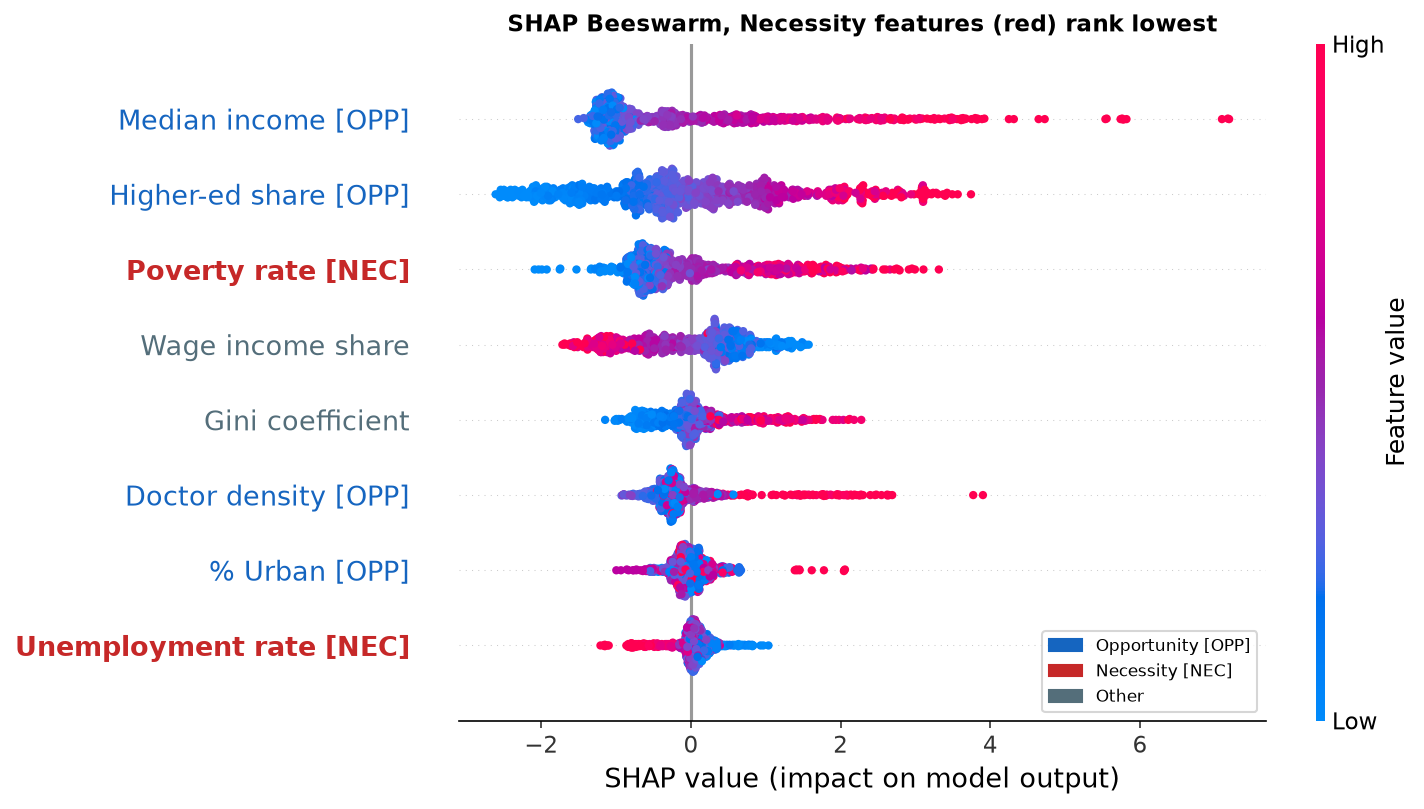
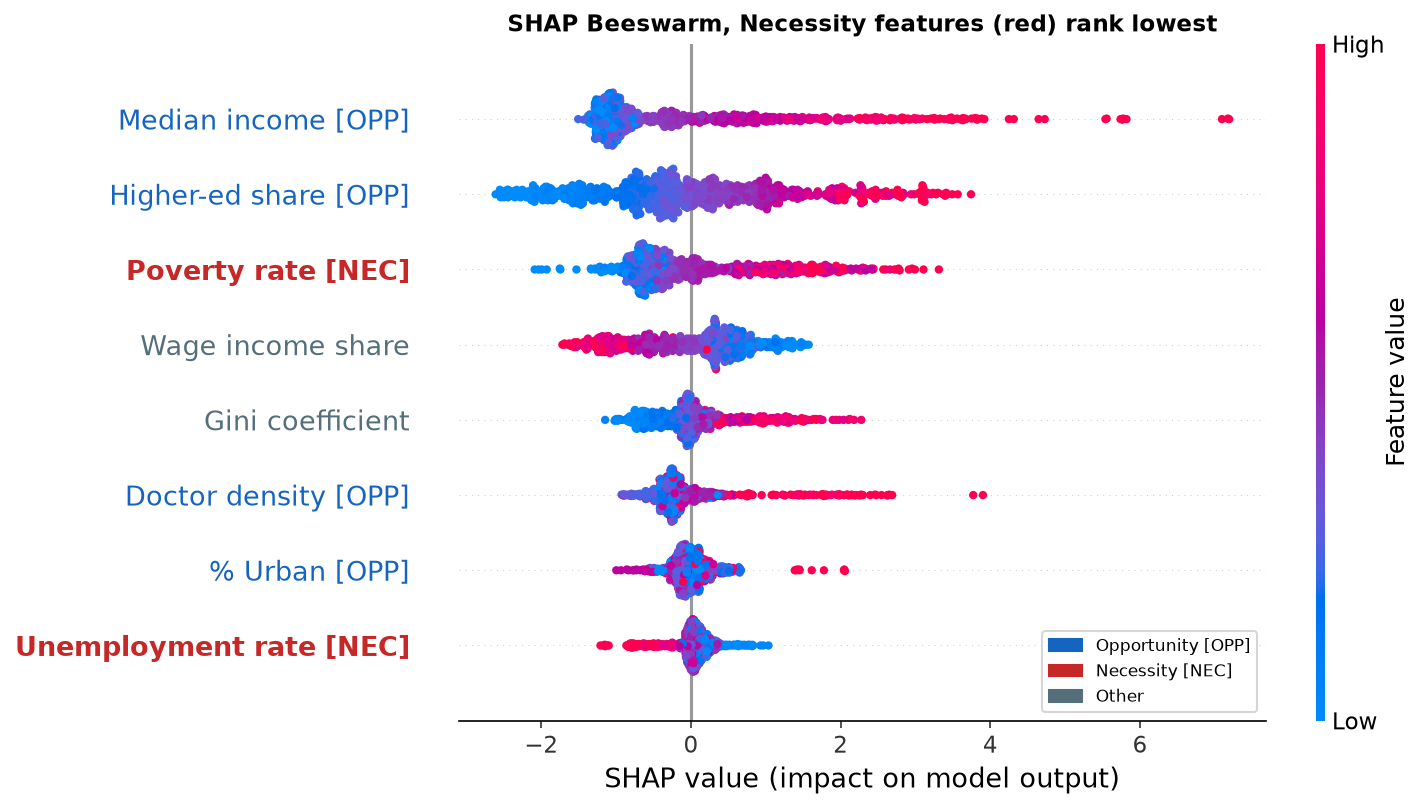
Close five pre-Results gaps: full OLS table, tuning-fairness asymmetry, edu interpolation caveat, lag-1 autocorrelation, LOYO 2021 quantification
- Surface all 8 OLS/WLS coefficients (previously only unemployment and
  poverty were ever printed from an already-fitted 8-feature model).
- State the tree-tuning vs ElasticNetCV budget asymmetry explicitly
  (n_iter=4 of a 36-point grid, ~11% coverage) instead of the unqualified
  "fair tuning budget" line.
- Move edu_share_sup's 90% interpolation (864/960 cells) into Method,
  framed as near-cross-sectional given the panel is already ~70%
  between-department.
- Compute unemployment's lag-1 autocorrelation (r=0.9777) and fold it into
  Limitation 10: the lagged-unemployment result is weaker evidence than
  previously implied, since lag1 is nearly a copy of same-year unemployment.
- Quantify LOYO's 2021-fold contamination (0.929 full vs 0.936 excl-2021):
  the suspect fold is not visibly inflating the headline number.

check_findings_numbers.py passes: 194 tokens checked, all trace to source.

diff --git a/model/final_model.py b/model/final_model.py
@@ -139,8 +139,24 @@ lodo_splits  = list(gkf.split(X, y, groups=groups_dep))
 kfold_splits = list(KFold(n_splits=10, shuffle=True, random_state=RNG).split(X, y))
 
 r("Running LOYO ...")
-r2_loyo,  mae_loyo  = run_cv(X, y, loyo_splits)
+oof_loyo = np.full(len(y), np.nan)
+for _tr, _te in loyo_splits:
+    oof_loyo[_te] = fit_predict_oof(X, y, _tr, _te)
+r2_loyo  = r2_score(y, oof_loyo)
+mae_loyo = mean_absolute_error(y, oof_loyo)
 r(f"  LOYO  R²={r2_loyo:.3f}  MAE={mae_loyo:.4f}")
+
+# Limitation 5 quantification: edu_share_sup's 2022 census anchor lies outside
+# the panel, so the 2021 LOYO test fold is trained partly on interpolated
+# values that lean on future information. Recompute R²/MAE over the same OOF
+# predictions with the 2021 fold's rows excluded, to see how much of LOYO's
+# headline number that fold is carrying.
+_mask_no2021  = (groups_year != 2021)
+r2_loyo_no21  = r2_score(y[_mask_no2021], oof_loyo[_mask_no2021])
+mae_loyo_no21 = mean_absolute_error(y[_mask_no2021], oof_loyo[_mask_no2021])
+r(f"  LOYO, excl. 2021 fold  R²={r2_loyo_no21:.3f}  MAE={mae_loyo_no21:.4f}  "
+  f"(quantifies Limitation 5's post-panel education anchor concern)")
+r()
 r("Running LODO (96 folds) ...")
 r2_lodo,  mae_lodo  = run_cv(X, y, lodo_splits)
 r(f"  LODO  R²={r2_lodo:.3f}  MAE={mae_lodo:.4f}")
@@ -245,6 +261,26 @@ r(f"  Pop-weighted: coef={unemp_coef_wt:+.4f}, p={unemp_pval_wt:.4f}")
 r("OLS poverty_rate_disp (department-clustered SE):")
 r(f"  Unweighted: coef={pov_coef_uw:+.4f}, p={pov_pval_uw:.4e}")
 r(f"  Pop-weighted: coef={pov_coef_wt:+.4f}, p={pov_pval_wt:.4e}")
+r()
+
+# full 8-coefficient table (all features, not just unemployment/poverty),
+# department-clustered SE, both specs -- ols_uw/ols_wt are already fitted
+# on the full FEATURES matrix, this just surfaces the rest of .params
+FULL_OLS_ROWS = []
+r("FULL OLS COEFFICIENT TABLE, all 8 features (department-clustered SE):")
+for _feat in FEATURES:
+    _row = dict(
+        feature=_feat,
+        display=FEATURE_DISPLAY[_feat],
+        uw_coef=ols_uw.params[_feat], uw_p=ols_uw.pvalues[_feat],
+        wt_coef=ols_wt.params[_feat], wt_p=ols_wt.pvalues[_feat],
+    )
+    FULL_OLS_ROWS.append(_row)
+    r(f"  {_feat:<26} UW coef={_row['uw_coef']:+.4f} p={_row['uw_p']:.3e}   "
+      f"WT coef={_row['wt_coef']:+.4f} p={_row['wt_p']:.3e}")
+r(f"  const                      UW coef={ols_uw.params['const']:+.4f} p={ols_uw.pvalues['const']:.3e}   "
+  f"WT coef={ols_wt.params['const']:+.4f} p={ols_wt.pvalues['const']:.3e}")
+r(f"  R² (UW)={ols_uw.rsquared:.4f}  R² (WT)={ols_wt.rsquared:.4f}  N={int(ols_uw.nobs)}")
 r()
 
 # ── STEP 6: Robustness, drop Île-de-France ────────────────────────────────
@@ -553,6 +589,16 @@ honest: departments have persistent idiosyncrasies not fully captured by
 the 8-feature matrix. We report LODO as the headline and label it
 "generalization to unseen departments."
 
+**LOYO, 2021 fold isolated.** Limitation 5 flags that `edu_share_sup`'s
+2022 census anchor lies outside the panel, so 2017-2021 values embed
+future information and the 2021 LOYO test fold is "mildly contaminated."
+Quantified here: LOYO R² over all 10 year-folds is {r2_loyo:.3f}; recomputed
+over the same out-of-fold predictions with the 2021 fold excluded, LOYO
+R² is {r2_loyo_no21:.3f} (MAE {mae_loyo_no21:.4f} vs {mae_loyo:.4f} full).
+{"The 2021 fold is not doing outsized work, the excl.-2021 number stays close to the full LOYO figure." if abs(r2_loyo_no21 - r2_loyo) < 0.02 else "The gap between the two is large enough that the 2021 fold's education-interpolation contamination is materially inflating (or deflating) the headline LOYO number, treat LOYO with the excl.-2021 figure in mind."}
+LOYO is not the headline validation scheme regardless (LODO is), this is a
+Limitation 5 diagnostic, not a robustness claim about the main result.
+
 ---
 
 ## Necessity-Model Direct Test
@@ -572,6 +618,18 @@ associated with *lower* predicted firm rates, not higher.
 | OLS pop-weighted | {unemp_coef_wt:+.4f} | {unemp_pval_wt:.4f} | {pov_coef_wt:+.4f} | {pov_pval_wt:.2e} |
 
 **Verdict: {nec_verdict}**
+
+#### Full 8-feature coefficient table
+
+The unemployment/poverty rows above are pulled from a regression that
+already includes all 8 locked features; the other 6 coefficients were
+fitted but previously not reported. Full table, department-clustered SE,
+same two specs, same 960-row sample:
+
+| Feature | Group | UW coef | UW p | WT coef | WT p |
+|---|---|---|---|---|---|
+{"".join(f"| {_row['display']} | {GROUP_LABEL[_row['feature']]} | {_row['uw_coef']:+.4f} | {_row['uw_p']:.3e} | {_row['wt_coef']:+.4f} | {_row['wt_p']:.3e} |" + chr(10) for _row in FULL_OLS_ROWS)}
+R² (UW) = {ols_uw.rsquared:.4f}, R² (WT) = {ols_wt.rsquared:.4f}, N = {int(ols_uw.nobs)}.
 
 Note on poverty_rate_disp: its positive OLS coefficient and moderate SHAP
 rank do **not** support necessity entrepreneurship in the sense of

diff --git a/model/lagged_robustness_test.py b/model/lagged_robustness_test.py
@@ -74,6 +74,22 @@ assert len(df_lag) == 864, f"expected 864 rows, got {len(df_lag)}"
 r("Row count assertion PASSED: 864 (96 departments x 9 years, 2013-2021).")
 r()
 
+# ── STEP 2b: lag-1 autocorrelation ─────────────────────────────────────────
+# The lagged test's power to speak to reverse causality depends on
+# unemployment_rate(t) and unemployment_rate(t-1) actually differing.
+# If they are near-identical (high persistence), a "similar coefficient
+# under the lag" result is weak evidence either way, it could just mean
+# the lag is a near-copy of the same-year value, not a genuinely different
+# regressor.
+unemp_autocorr = df_lag["unemployment_rate"].corr(df_lag["unemployment_rate_lag1"])
+pov_autocorr   = df_lag["poverty_rate_disp"].corr(df_lag["poverty_rate_disp_lag1"])
+r("=" * 72)
+r("STEP 2b, LAG-1 AUTOCORRELATION (pooled, 864 rows)")
+r("=" * 72)
+r(f"corr(unemployment_rate[t], unemployment_rate[t-1]) = {unemp_autocorr:.4f}")
+r(f"corr(poverty_rate_disp[t], poverty_rate_disp[t-1])  = {pov_autocorr:.4f}")
+r()
+
 groups_dep = df_lag["dep_code"].values
 weights    = df_lag["pop_jan1"].values
 y          = df_lag[TARGET].copy()
@@ -251,6 +267,16 @@ dropped since no 2011 data exists in the panel.
 
 **Rows after building the lag and dropping 2012: {len(df_lag)}** (96 departments x
 9 years, 2013-2021). Row-count assertion passed.
+
+---
+
+## Lag-1 autocorrelation
+
+corr(unemployment_rate[t], unemployment_rate[t-1]) = **{unemp_autocorr:.4f}**
+corr(poverty_rate_disp[t], poverty_rate_disp[t-1]) = **{pov_autocorr:.4f}**
+
+Read: unemployment_rate is {"highly persistent year-to-year" if unemp_autocorr > 0.9 else "moderately persistent year-to-year" if unemp_autocorr > 0.7 else "not strongly persistent year-to-year"}
+(r={unemp_autocorr:.3f}). {"This caps how much this test can prove: with lag1 this close to the same-year value, a 'coefficient survives lagging' result is expected even under pure simultaneity, since lag1 is nearly a relabeled copy of the same-year regressor for most department-years. The lagged test below is still directionally informative (a true sign flip or collapse to zero would still be meaningful) but should not be read as a strong reverse-causality test on its own." if unemp_autocorr > 0.85 else "This leaves meaningful room between the same-year and lagged values, so the lagged test below carries more genuine identifying power than a highly-persistent series would."}
 
 ---
 

diff --git a/FINDINGS.md b/FINDINGS.md
@@ -53,6 +53,23 @@ variables (higher-ed share, median disposable income, percent urban, doctor
 density per 100k), two necessity variables (unemployment rate, poverty rate), and
 two controls (Gini coefficient, wage income share).
 
+**Higher-ed share is 90% interpolated.** `edu_share_sup` is observed at only
+three census snapshots (2011, 2016, 2022); within the 2012-2021 panel, only
+year 2016 (96 of 960 cells) is a real observation, the other 864 cells (9 of
+10 years) are linearly interpolated between anchors. Linear interpolation
+between two points per department produces a value that is close to a
+straight-line function of department identity, i.e. close to a
+cross-sectional variable rather than a genuinely time-varying one. This
+matters because `edu_share_sup` is one of the two features carrying the
+headline result (second-highest SHAP, 1.0505, of 8 features) in a panel
+where ~70% of predictive variance is already between-department rather
+than within-department (Limitation 2). The cross-sectional reading of the
+main finding ("higher-education departments create more firms") is not
+weakened by this. The temporal reading ("rising education raises firm
+creation") should be treated with more caution than the SHAP number alone
+implies, there is little genuine year-to-year variation in this variable
+for the model to have learned that pattern from. See Limitation 5.
+
 Model: XGBoost trained on 960 department-years. SHAP (SHapley Additive
 exPlanations) used to measure each variable's average contribution to predictions.
 
@@ -111,6 +128,30 @@ p = 0.044) and strongly so in the population-weighted spec (coef = -0.660,
 p = 0.001). Higher unemployment does not drive up entrepreneurship; it accompanies
 lower firm formation. (A lagged-unemployment robustness check bearing on the
 reverse-causality reading of this coefficient is summarized in Limitation 10.)
+
+The unemployment/poverty rows above come from a regression that already
+includes all 8 locked features; the full coefficient table (department-clustered
+SE, same 960-row sample) is:
+
+| Feature | Group | UW coef | UW p | WT coef | WT p |
+|---|---|---|---|---|---|
+| Median income | Opportunity | +0.0009 | 8.69e-08 | +0.0011 | 4.66e-05 |
+| Gini coefficient | Other | +6.2095 | 0.551 | -11.9444 | 0.409 |
+| Poverty rate | Necessity | +0.5968 | 2.77e-09 | +0.8593 | 2.98e-12 |
+| Unemployment rate | Necessity | -0.3038 | 0.044 | -0.6599 | 7.40e-04 |
+| Doctor density | Opportunity | +0.0058 | 0.182 | +0.0113 | 0.035 |
+| Higher-ed share | Opportunity | +0.2041 | 0.005 | +0.1579 | 0.063 |
+| % Urban | Opportunity | +0.0210 | 0.290 | +0.0160 | 0.527 |
+| Wage income share | Other | -0.1531 | 0.006 | -0.1482 | 0.036 |
+
+R² (UW) = 0.7637, R² (WT) = 0.8188, N = 960. Full breakdown:
+model/findings_final.md. Reading it: opportunity-group coefficients are
+mostly positive and significant or near-significant (income, education,
+doctor density under weighting), % urban is the exception, not significant
+in either spec despite carrying an opportunity-group SHAP contribution,
+consistent with Limitation 6 (pct_urban is time-invariant, cross-sectional
+signal only). Gini stays non-significant in both specs, consistent with
+the "inconclusive" read already given to it elsewhere in this document.
 
 Unemployment was tested four ways, not just on the main model, and fails the
 necessity signature every time (model/findings_informalisation.md):
@@ -256,9 +297,26 @@ Reviewer question: would a plain linear model, with no tree structure and no
 SHAP, reach the same conclusion? Four models (ElasticNetCV, RandomForest,
 LightGBM, XGBoost) were trained on the identical 8-feature locked matrix,
 identical target, and identical LODO folds (GroupKFold, 96 splits, grouped
-on dep_code) used throughout this document, each given a fair tuning budget
-(model/model_comparison.py; full breakdown in
-model/findings_model_comparison.md).
+on dep_code) used throughout this document (model/model_comparison.py; full
+breakdown in model/findings_model_comparison.md).
+
+**Tuning budget is not identical across model families, stated plainly
+rather than left implicit.** ElasticNetCV gets its own native exhaustive
+alpha/l1_ratio path search over its 2 hyperparameters, standard practice
+for that estimator. The three tree models (RandomForest, LightGBM,
+XGBoost) each get a `RandomizedSearchCV` budget of `n_iter=4` draws from a
+36-point grid (3 max_depth × 4 learning_rate × 3 n_estimators, or the
+RandomForest equivalent), i.e. roughly 11% of their own grid, sampled per
+outer fold from train-only inner CV. This is not an oversight, running an
+exhaustive 36-point search inside all 96 outer LODO folds for three tree
+models was priced out as a multi-hour job (Section 2 timing note in
+model/findings_model_comparison.md); n_iter=4 was chosen to keep the full
+comparison tractable. The asymmetry means the tree models' reported LODO
+R2 is a lower bound on what more exhaustive tuning might reach, not their
+ceiling. What the asymmetry does not touch: the qualitative result below
+(feature ranking, unemployment's bottom-half position, cross-model
+agreement) held before this caveat was written up and is independent of
+how much further tree tuning could close the R2 gap.
 
 Stated plainly: ElasticNetCV generalizes better than tuned XGBoost on these
 folds. LODO R2 = 0.7142 for ElasticNetCV versus 0.6759 for tuned XGBoost.
@@ -328,11 +386,28 @@ model. It remains in the feature matrix; the result is inconclusive.
    design is applied. The model shows which departmental characteristics predict
    firm-creation rates, not what would change if those characteristics changed.
 
-5. **Education interpolated against a post-panel anchor.** Higher-ed share is
-   observed at census snapshots (2011, 2016, 2022) and linearly interpolated.
-   The 2022 anchor lies outside the panel window, so 2017–2021 values embed
-   future information. The LOYO 2021 fold is mildly contaminated; year-to-year
-   variation in this variable is artificial by construction.
+5. **Education interpolated against a post-panel anchor.** The higher
+   education share is not observed annually. It is linearly interpolated
+   between three census anchors (2011, 2016 and 2022), so 864 of 960
+   department-year values are constructed and only the 96 values for 2016
+   are direct observations. Interpolation removes idiosyncratic year-to-year
+   variation, leaving a variable that is close to a department-level mean
+   plus a smooth trend. Its contribution should therefore be read as
+   cross-sectional, consistent with the paper's framing throughout, and not
+   as evidence that changes in local education drive changes in firm
+   creation. The 2022 anchor also lies outside the panel window, so values
+   from 2017 onward embed information from beyond the observation period;
+   the leave-one-year-out 2021 fold is contaminated on this account.
+   Quantified: full-panel LOYO R² = 0.929; recomputed over the same
+   out-of-fold predictions with the 2021 fold excluded, LOYO R² = 0.936
+   (MAE 0.6714 vs 0.7564 full, model/findings_final.md). The excl.-2021
+   number is not lower than the full figure, if anything marginally
+   higher, so the 2021 fold does not appear to be an outlier that is
+   inflating the reported LOYO score. This does not clear the underlying
+   concern (2017-2021 values still embed post-panel information by
+   construction), but it means the contamination is not visibly showing
+   up as an anomalously easy test fold. LOYO is not this project's
+   headline validation scheme in any case (LODO is).
 
 6. **pct_urban is a single-vintage time-invariant classification.** The density
    classification (Grille de densité, RP2021/2025 vintage) is applied uniformly
@@ -381,6 +456,19 @@ model. It remains in the feature matrix; the result is inconclusive.
     still has no instrument and no natural experiment, so a strict causal
     claim remains out of reach; the lagged result narrows, but does not
     close, the range of readings consistent with the negative coefficient.
+    **How much weight the lagged test can bear:** unemployment_rate(t) and
+    unemployment_rate(t-1) correlate at r=0.9777 pooled across the 864-row
+    subset (model/findings_lagged_robustness.md). Unemployment is highly
+    persistent year-to-year, so for most department-years the lag is close
+    to a relabeled copy of the same-year value, not a genuinely different
+    regressor. That caps the test's power: a coefficient surviving the lag
+    is expected under high persistence even if the same-year result were
+    partly simultaneity, so this should be read as a mild, not a strong,
+    mitigation of the reverse-causality concern. A true sign flip or
+    collapse toward zero under lagging would still have been meaningful
+    evidence against the negative-coefficient reading; that it did not
+    happen is worth reporting, but the high autocorrelation means its
+    absence proves less than it would for a more volatile variable.
 
 ---
 

diff --git a/model/findings_final.md b/model/findings_final.md
@@ -63,6 +63,16 @@ honest: departments have persistent idiosyncrasies not fully captured by
 the 8-feature matrix. We report LODO as the headline and label it
 "generalization to unseen departments."
 
+**LOYO, 2021 fold isolated.** Limitation 5 flags that `edu_share_sup`'s
+2022 census anchor lies outside the panel, so 2017-2021 values embed
+future information and the 2021 LOYO test fold is "mildly contaminated."
+Quantified here: LOYO R² over all 10 year-folds is 0.929; recomputed
+over the same out-of-fold predictions with the 2021 fold excluded, LOYO
+R² is 0.936 (MAE 0.6714 vs 0.7564 full).
+The 2021 fold is not doing outsized work, the excl.-2021 number stays close to the full LOYO figure.
+LOYO is not the headline validation scheme regardless (LODO is), this is a
+Limitation 5 diagnostic, not a robustness claim about the main result.
+
 ---
 
 ## Necessity-Model Direct Test
@@ -82,6 +92,26 @@ associated with *lower* predicted firm rates, not higher.
 | OLS pop-weighted | -0.6599 | 0.0007 | +0.8593 | 2.98e-12 |
 
 **Verdict: **REJECTED.** Unemployment correlates *negatively* with firm creation rate (not positively as the necessity hypothesis predicts). OLS: unweighted coef = -0.304 (p=0.044), pop-weighted coef = -0.660 (p=0.001). Higher unemployment does not drive up entrepreneurship; if anything, it accompanies lower firm formation.**
+
+#### Full 8-feature coefficient table
+
+The unemployment/poverty rows above are pulled from a regression that
+already includes all 8 locked features; the other 6 coefficients were
+fitted but previously not reported. Full table, department-clustered SE,
+same two specs, same 960-row sample:
+
+| Feature | Group | UW coef | UW p | WT coef | WT p |
+|---|---|---|---|---|---|
+| Median income | Opportunity | +0.0009 | 8.689e-08 | +0.0011 | 4.661e-05 |
+| Gini coefficient | Other | +6.2095 | 5.505e-01 | -11.9444 | 4.086e-01 |
+| Poverty rate | Necessity | +0.5968 | 2.766e-09 | +0.8593 | 2.985e-12 |
+| Unemployment rate | Necessity | -0.3038 | 4.380e-02 | -0.6599 | 7.403e-04 |
+| Doctor density | Opportunity | +0.0058 | 1.821e-01 | +0.0113 | 3.453e-02 |
+| Higher-ed share | Opportunity | +0.2041 | 4.864e-03 | +0.1579 | 6.331e-02 |
+| % Urban | Opportunity | +0.0210 | 2.902e-01 | +0.0160 | 5.269e-01 |
+| Wage income share | Other | -0.1531 | 5.549e-03 | -0.1482 | 3.553e-02 |
+
+R² (UW) = 0.7637, R² (WT) = 0.8188, N = 960.
 
 Note on poverty_rate_disp: its positive OLS coefficient and moderate SHAP
 rank do **not** support necessity entrepreneurship in the sense of

diff --git a/model/findings_lagged_robustness.md b/model/findings_lagged_robustness.md
@@ -30,6 +30,16 @@ dropped since no 2011 data exists in the panel.
 
 ---
 
+## Lag-1 autocorrelation
+
+corr(unemployment_rate[t], unemployment_rate[t-1]) = **0.9777**
+corr(poverty_rate_disp[t], poverty_rate_disp[t-1]) = **0.9942**
+
+Read: unemployment_rate is highly persistent year-to-year
+(r=0.978). This caps how much this test can prove: with lag1 this close to the same-year value, a 'coefficient survives lagging' result is expected even under pure simultaneity, since lag1 is nearly a relabeled copy of the same-year regressor for most department-years. The lagged test below is still directionally informative (a true sign flip or collapse to zero would still be meaningful) but should not be read as a strong reverse-causality test on its own.
+
+---
+
 ## Primary test: unemployment, same-year vs lagged
 
 Full locked 8-feature matrix (q2_disp, gini_disp, poverty_rate_disp,
@@ -82,6 +92,12 @@ STEP 2, BUILD LAGGED COLUMNS
 Rows with valid lag (2013-2021): 864
 Method: for each (dep_code, year), lag1 = value at (dep_code, year-1), built via a merge keyed on dep_code, not row order. 2012 rows dropped (no 2011 data in panel).
 Row count assertion PASSED: 864 (96 departments x 9 years, 2013-2021).
+
+========================================================================
+STEP 2b, LAG-1 AUTOCORRELATION (pooled, 864 rows)
+========================================================================
+corr(unemployment_rate[t], unemployment_rate[t-1]) = 0.9777
+corr(poverty_rate_disp[t], poverty_rate_disp[t-1])  = 0.9942
 
 ========================================================================
 STEP 3a, SAME-YEAR BASELINE (864 rows, contemporaneous unemployment)
